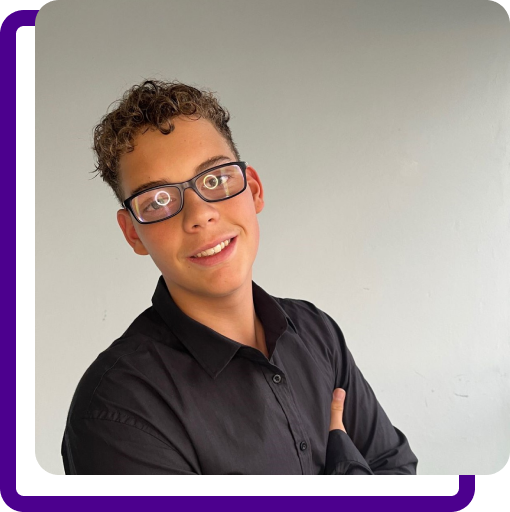
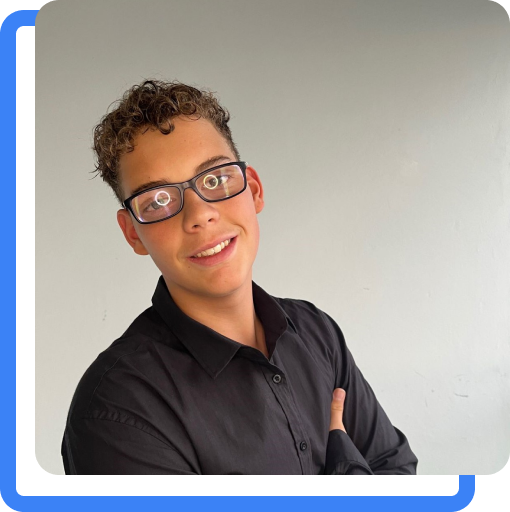
identidade visual modificada

Changed region(s): [[0.0, 0.0, 0.9412, 1.0]]

diff --git a/src/components/About.jsx b/src/components/About.jsx
@@ -10,7 +10,7 @@ export default function About() {
                     About <span className="text-[var(--button-color)]">Me</span>
                 </h1>
                 <p className="text-[#6B7280] font-lexend font-normal p-3 px-0 text-md">
-                    Passionate about technology and web development, I’m a junior programmer with a solid grounding in <strong className="font-bold text-[#FFF]">HTML, CSS, Tailwind, Bootstrap, React and Javascript.</strong> During my technical computer course, which I completed alongside high school, I learned how to turn ideas into practical, functional projects. I’m currently deepening my knowledge of <strong className="font-bold text-[#FFF]">JavaScript, React and TypeScript</strong>, expanding my skills to create dynamic and interactive applications.
+                    Passionate about technology and web development, I’m a junior programmer with a solid grounding in <strong className="font-bold">HTML, CSS, Tailwind, Bootstrap, React and Javascript.</strong> During my technical computer course, which I completed alongside high school, I learned how to turn ideas into practical, functional projects. I’m currently deepening my knowledge of <strong className="font-bold">JavaScript, React and TypeScript</strong>, expanding my skills to create dynamic and interactive applications.
                 </p>
                 <p className="text-[#6B7280] font-lexend font-normal p-3 px-0 text-md ">
                     Although I don’t have any professional experience yet, I’m eager to apply my knowledge, learn from experienced teams and contribute to challenging projects. I am easy to learn, proactive and value collaboration as an essential tool for professional growth.
@@ -19,7 +19,7 @@ export default function About() {
                     If you’re looking for a committed professional who is constantly learning and motivated to grow in the development field, I’d love to connect and exchange ideas! 🚀
                 </p>
                 <div className="flex items-center justify-between">
-                <a href="https://mail.google.com/mail/?view=cm&fs=1&to=nicksss.gomes@gmail.com&su=Contato&body=Olá,%20gostaria%20de%20falar%20com%20você." className="p-4 bg-(--head-bg) text-(--main-text) rounded-sm w-1/3 flex items-center justify-center font-lexend font-regular border hover:bg-(--button-color) border-solid hover:border-(--border-button) hover:shadow-(--shadow-button) transition-all duration-300 ease-in-out " target="blank">Contact Me</a>
+                <a href="https://mail.google.com/mail/?view=cm&fs=1&to=nicksss.gomes@gmail.com&su=Contato&body=Olá,%20gostaria%20de%20falar%20com%20você." className="p-4 bg-(--head-bg) text-(--main-text) rounded-sm w-1/3 flex items-center justify-center font-lexend font-regular hover:text-(--bg-color) border hover:bg-(--button-color) border-solid hover:border-(--border-button) hover:shadow-(--shadow-button) transition-all duration-300 ease-in-out " target="blank">Contact Me</a>
                 <div className="flex gap-5 transition-all">
                     <a href="https://www.linkedin.com/in/nicollas-gomes-4479952b9/" target="blank">
                         <i className="fa-brands fa-linkedin text-(--text-color) hover:text-(--color-linkedin) text-4xl transition-all duration-300 ease-in-out"></i>

diff --git a/src/components/Header.jsx b/src/components/Header.jsx
@@ -6,10 +6,10 @@ export default function Header() {
     <header className="flex justify-center">
         <nav className="bg-(--head-bg) text-(--text-color) flex justify-evenly w-5/6 p-5 rounded-b-lg">
           <div className="flex gap-15">
-            <a href="/" className="hover:text-(--main-text) font-IBM font-normal transition-all duration-300 ease-in-out">Home</a>
-            <a href="/About" className="hover:text-(--main-text) font-IBM font-normal transition-all duration-300 ease-in-out">About me</a>
-            <a href="/Projects" className="hover:text-(--main-text) font-IBM font-normal transition-all duration-300 ease-in-out">Projects</a>
-            <a href="/Skills" className="hover:text-(--main-text) font-IBM font-normal transition-all duration-300 ease-in-out">Skills</a>
+            <a href="/" className="hover:text-(--color-linkedin) font-poppins font-bold transition-all duration-300 ease-in-out">Home</a>
+            <a href="/About" className="hover:text-(--color-linkedin) font-poppins font-bold transition-all duration-300 ease-in-out">About me</a>
+            <a href="/Projects" className="hover:text-(--color-linkedin) font-poppins font-bold transition-all duration-300 ease-in-out">Projects</a>
+            <a href="/Skills" className="hover:text-(--color-linkedin) font-poppins font-bold transition-all duration-300 ease-in-out">Skills</a>
           </div>
           <div className="flex gap-5 transition-all">
             <a href="https://www.linkedin.com/in/nicollas-gomes-4479952b9/" target="blank">

diff --git a/src/components/Home.jsx b/src/components/Home.jsx
@@ -9,13 +9,13 @@ export default function Home() {
         <div className="main-container flex items-center justify-around w-4/6">
         <div className="text-(--main-text) max-w-2xl">
           <h1 className="overflow-hidden whitespace-nowrap font-extrabold font-raleway text-7xl p-3 px-0 animate-typing border-r border-solid border-(--main-text)">Nicollas Gomes</h1>
-          <p className="font-IBM font-normal p-3 px-0 mb-10">
+          <p className="font-poppins font-normal p-3 px-0 mb-10">
             I have experience with HTML, TailwindCSS, JavaScript, Git, React, and developing
             responsive and interactive layouts in academic and personal projects.
             I’m always seeking to improve my skills and stay up-to-date with
             industry trends.
           </p>
-          <a href="" className="flex w-4/6 text-xl justify-center items-center gap-3 font-IBM font-bold bg-(--head-bg) hover:bg-(--button-color) p-6 border border-solid hover:border-(--border-button) rounded-sm hover:shadow-(--shadow-button) transition-all duration-300 ease-in-out">
+          <a href="" className="flex w-4/6 text-xl justify-center items-center gap-3 hover:text-(--bg-color) font-poppins font-bold bg-(--head-bg) hover:bg-(--button-color) p-6 border border-solid hover:border-(--border-button) rounded-sm hover:shadow-(--shadow-button) transition-all duration-300 ease-in-out">
             Let’s get started
             <i className="fa-solid fa-chevron-right"></i>
           </a>

diff --git a/src/index.css b/src/index.css
@@ -2,20 +2,21 @@
 
 @theme {
   --color-*: initial;
-  --button-color: #4c008e;
-  --border-button: #9a1bba;
-  --head-bg: #1b1b1b;
-  --bg-color: #080808;
-  --text-color: #9c9c9c;
-  --main-text: #fff;
-  --color-zapzap: #25d366;
-  --color-email: #f4b400;
-  --color-linkedin: #0077b5;
-
+  --button-color: #3b82f6;    /* Azul vibrante para botões */
+  --border-button: #2563eb;   /* Azul mais escuro para borda */
+  --head-bg: #e0f2fe;         /* Azul muito claro para header */
+  --bg-color: #f0f9ff;        /* Azul mais claro ainda para fundo */
+  --text-color: #64748b;      /* Azul acinzentado para texto secundário */
+  --main-text: #0f172a;       /* Azul muito escuro para texto principal */
+  --color-zapzap: #25d366;    /* Verde do WhatsApp */
+  --color-email: #f4b400;     /* Amarelo do email */
+  --color-linkedin: #0077b5;  /* Azul do LinkedIn */
+  
   --shadow-*: initial;
-  --shadow-button: 0 0 20px rgba(154, 27, 186, 1);
+  --shadow-button: 0 0 20px rgba(59, 130, 246, 0.4); /* Shadow box em azul */
 
   --font-*: initial;
+  --font-poppins: "Poppins";
   --font-raleway: "Raleway";
   --font-IBM: "IBM Plex Mono";
   --font-lexend: "Lexend Deca";
@@ -29,11 +30,11 @@
     }
 
     30%{
-        width: 13ch;
+      width: 13ch;
     }
 
     100% {
-        width: 13ch;
+      width: 13ch;
     }
   }
 

diff --git a/index.html b/index.html
@@ -21,6 +21,12 @@
       href="https://fonts.googleapis.com/css2?family=Lexend+Deca&display=swap"
       rel="stylesheet"
     />
+    <link rel="preconnect" href="https://fonts.googleapis.com" />
+    <link rel="preconnect" href="https://fonts.gstatic.com" crossorigin />
+    <link
+      href="https://fonts.googleapis.com/css2?family=Poppins:wght@400;700&display=swap"
+      rel="stylesheet"
+    />
     <meta name="viewport" content="width=device-width, initial-scale=1.0" />
     <title>Portfolio</title>
     <script
